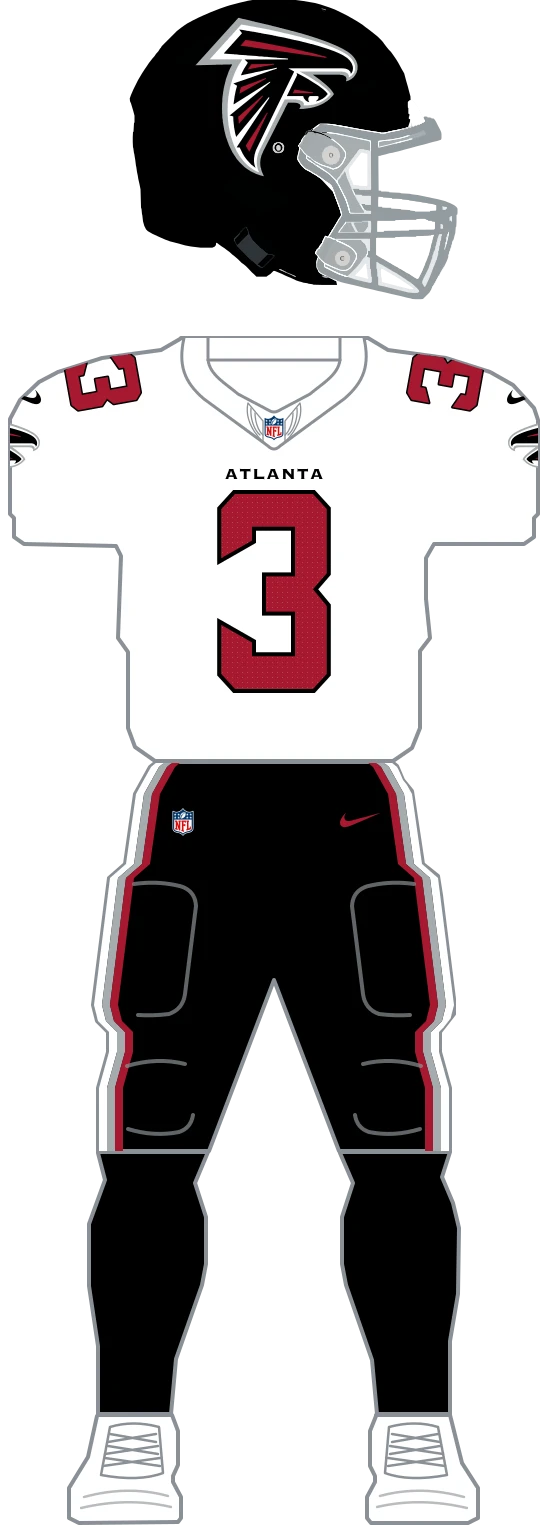
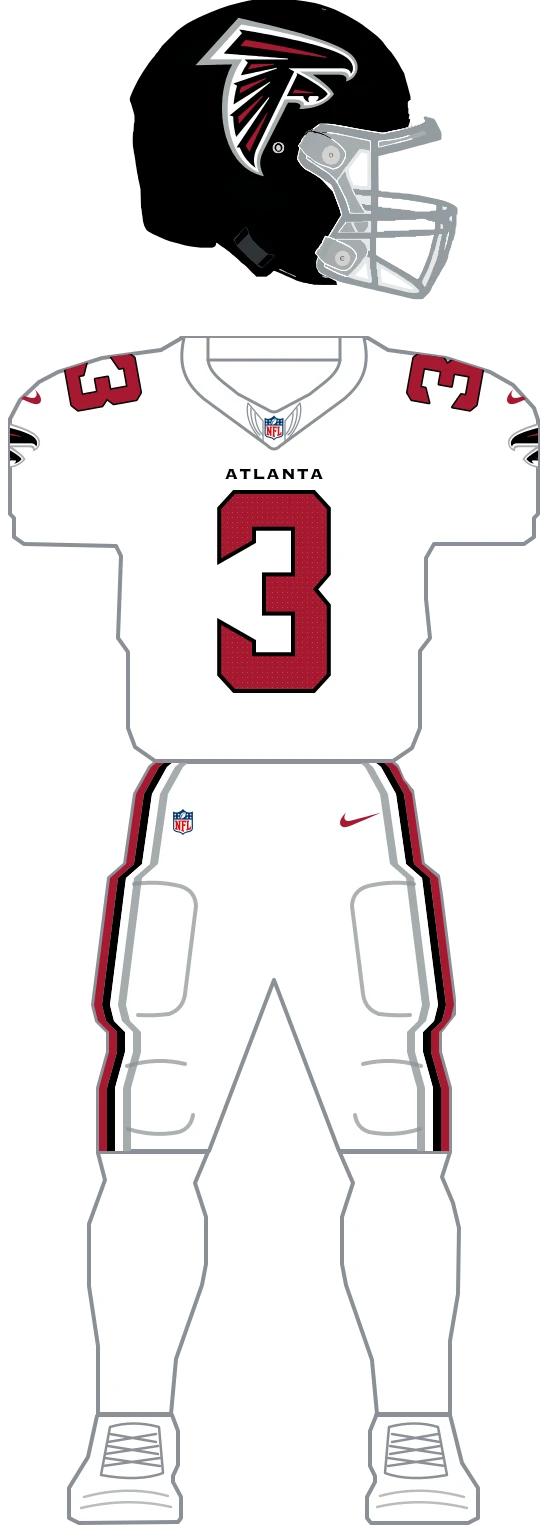
fix(uniforms): correct 2026 pants stripes, socks and combinations for the Falcons (#1115)
Reorder the 2026 side-seam stripe to red, black, white and silver from the seam, add red socks,
make white pants and white socks the away standard, add the black-pants and white-socks home
pairings and the black-pants away pairing, and set the pants and away sleeve swoosh colours.

Changed region(s): [[0.1518, 0.4899, 0.8196, 0.9186], [0.9107, 0.245, 0.9411, 0.2756]]

diff --git a/web/lib/uniforms/teams/falcons/catalog.ts b/web/lib/uniforms/teams/falcons/catalog.ts
@@ -132,10 +132,26 @@ export const FALCONS_CATALOG: TeamCatalog = {
       combinations: [
         {
           key: 'standard',
-          label: 'Standard',
+          label: 'White pants',
           helmet: 'black-falcon',
           pants: 'white-2026',
-          pantsNike: 'black',
+          pantsNike: 'red',
+          socks: 'red',
+        },
+        {
+          key: 'black-pants',
+          label: 'Black pants',
+          helmet: 'black-falcon',
+          pants: 'black-2026',
+          pantsNike: 'white',
+          socks: 'black',
+        },
+        {
+          key: 'white-socks',
+          label: 'White pants, white socks',
+          helmet: 'black-falcon',
+          pants: 'white-2026',
+          pantsNike: 'red',
           socks: 'white',
         },
       ],
@@ -143,7 +159,7 @@ export const FALCONS_CATALOG: TeamCatalog = {
     {
       id: 'falcons-away-2026-2026',
       slug: 'away-2026',
-      sleeveNike: 'black',
+      sleeveNike: 'red',
       name: 'Away',
       kind: 'away',
       jersey: 'white-2026',
@@ -161,11 +177,19 @@ export const FALCONS_CATALOG: TeamCatalog = {
       combinations: [
         {
           key: 'standard',
-          label: 'Standard',
+          label: 'White pants',
+          helmet: 'black-falcon',
+          pants: 'white-2026',
+          pantsNike: 'red',
+          socks: 'white',
+        },
+        {
+          key: 'black-pants',
+          label: 'Black pants',
           helmet: 'black-falcon',
           pants: 'black-2026',
-          pantsNike: 'red',
-          socks: 'black',
+          pantsNike: 'white',
+          socks: 'white',
         },
       ],
     },

diff --git a/web/lib/uniforms/teams/falcons/parts.ts b/web/lib/uniforms/teams/falcons/parts.ts
@@ -34,16 +34,18 @@ export const FALCONS_SPEC: TeamSpec = {
     white: FALCONS_JERSEY_WHITE,
     red: FALCONS_JERSEY_RED,
   },
-  // The same red leg stripe, framed in black, on both pants.
+  // Both 2026 pants carry one side-seam stripe, from the seam inward: red, black, white, silver.
+  // The 2020 pants use the drawn tapered stripe.
   pants: {
     'white-2026': {
       body: 'white',
       stripes: {
         position: 'leg-edge',
         bands: [
-          { color: 'black', size: 's' },
-          { color: 'silver', size: 's' },
           { color: 'red', size: 's' },
+          { color: 'black', size: 's' },
+          { color: 'white', size: 's' },
+          { color: 'silver', size: 's' },
         ],
         gap: 'none',
         edge: 'none',
@@ -55,9 +57,10 @@ export const FALCONS_SPEC: TeamSpec = {
       stripes: {
         position: 'leg-edge',
         bands: [
+          { color: 'red', size: 's' },
+          { color: 'black', size: 's' },
           { color: 'white', size: 's' },
           { color: 'silver', size: 's' },
-          { color: 'red', size: 's' },
         ],
         gap: 'none',
         edge: 'none',
@@ -78,5 +81,6 @@ export const FALCONS_SPEC: TeamSpec = {
   socks: {
     black: { color: 'black', stripes: 'none' },
     white: { color: 'white', stripes: 'none' },
+    red: { color: 'red', stripes: 'none' },
   },
 };
